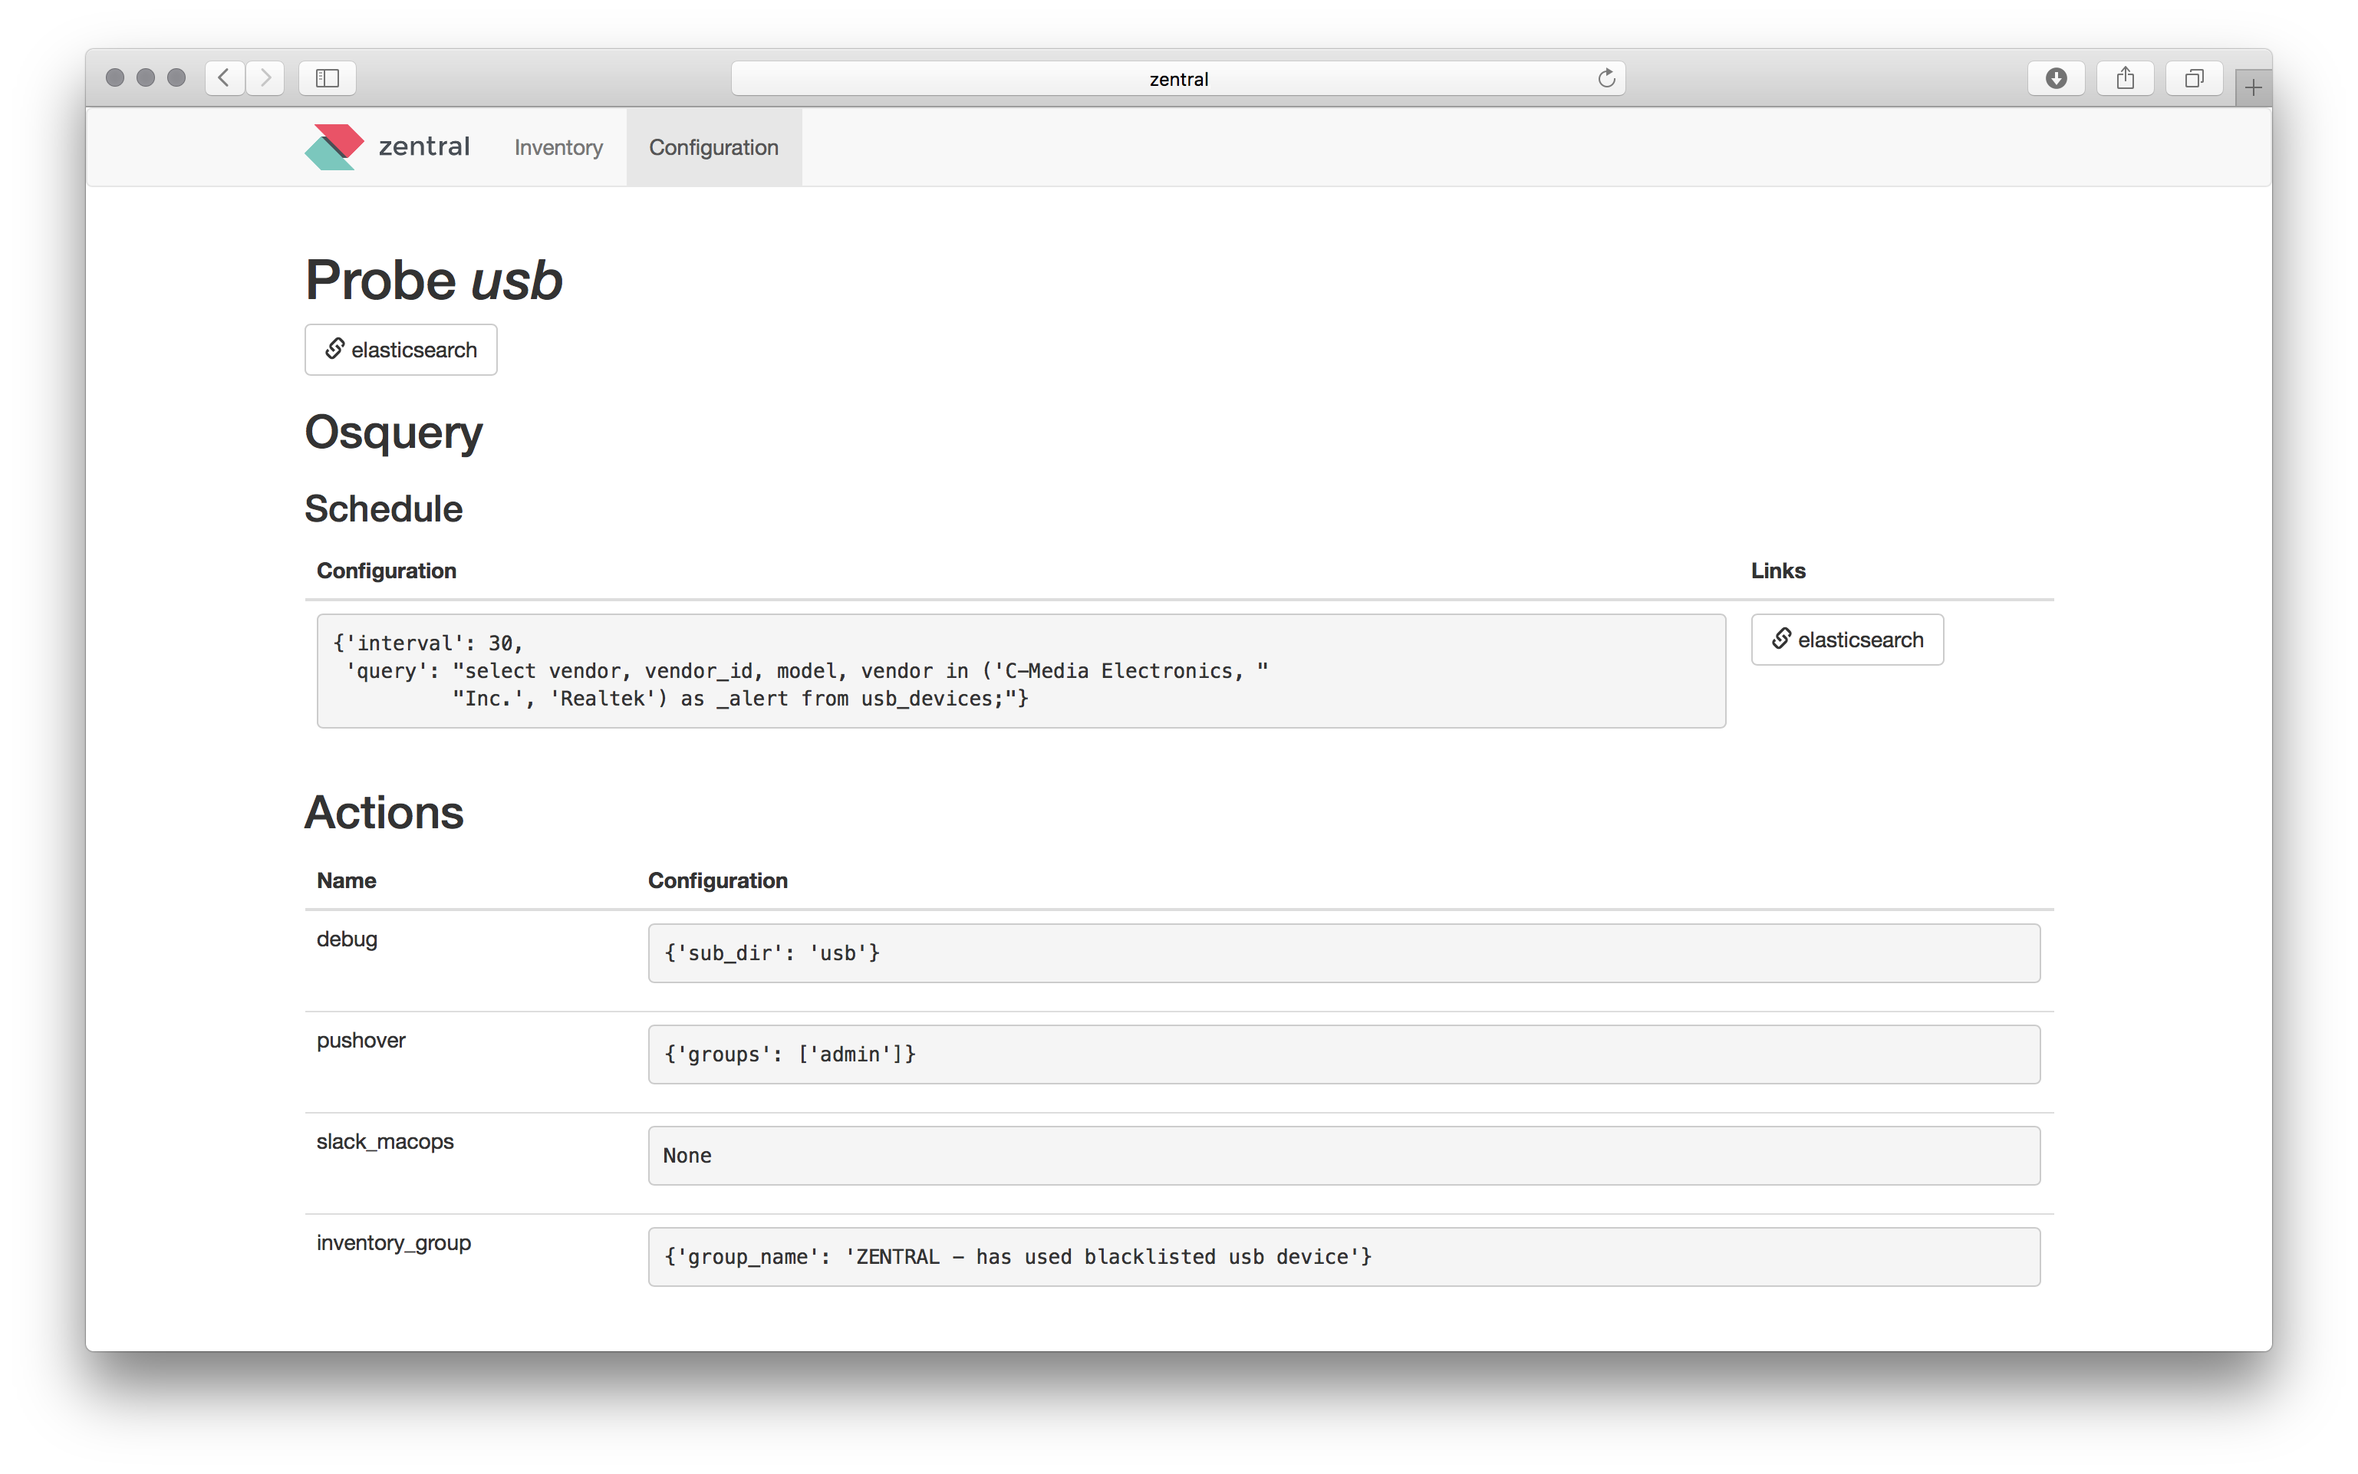
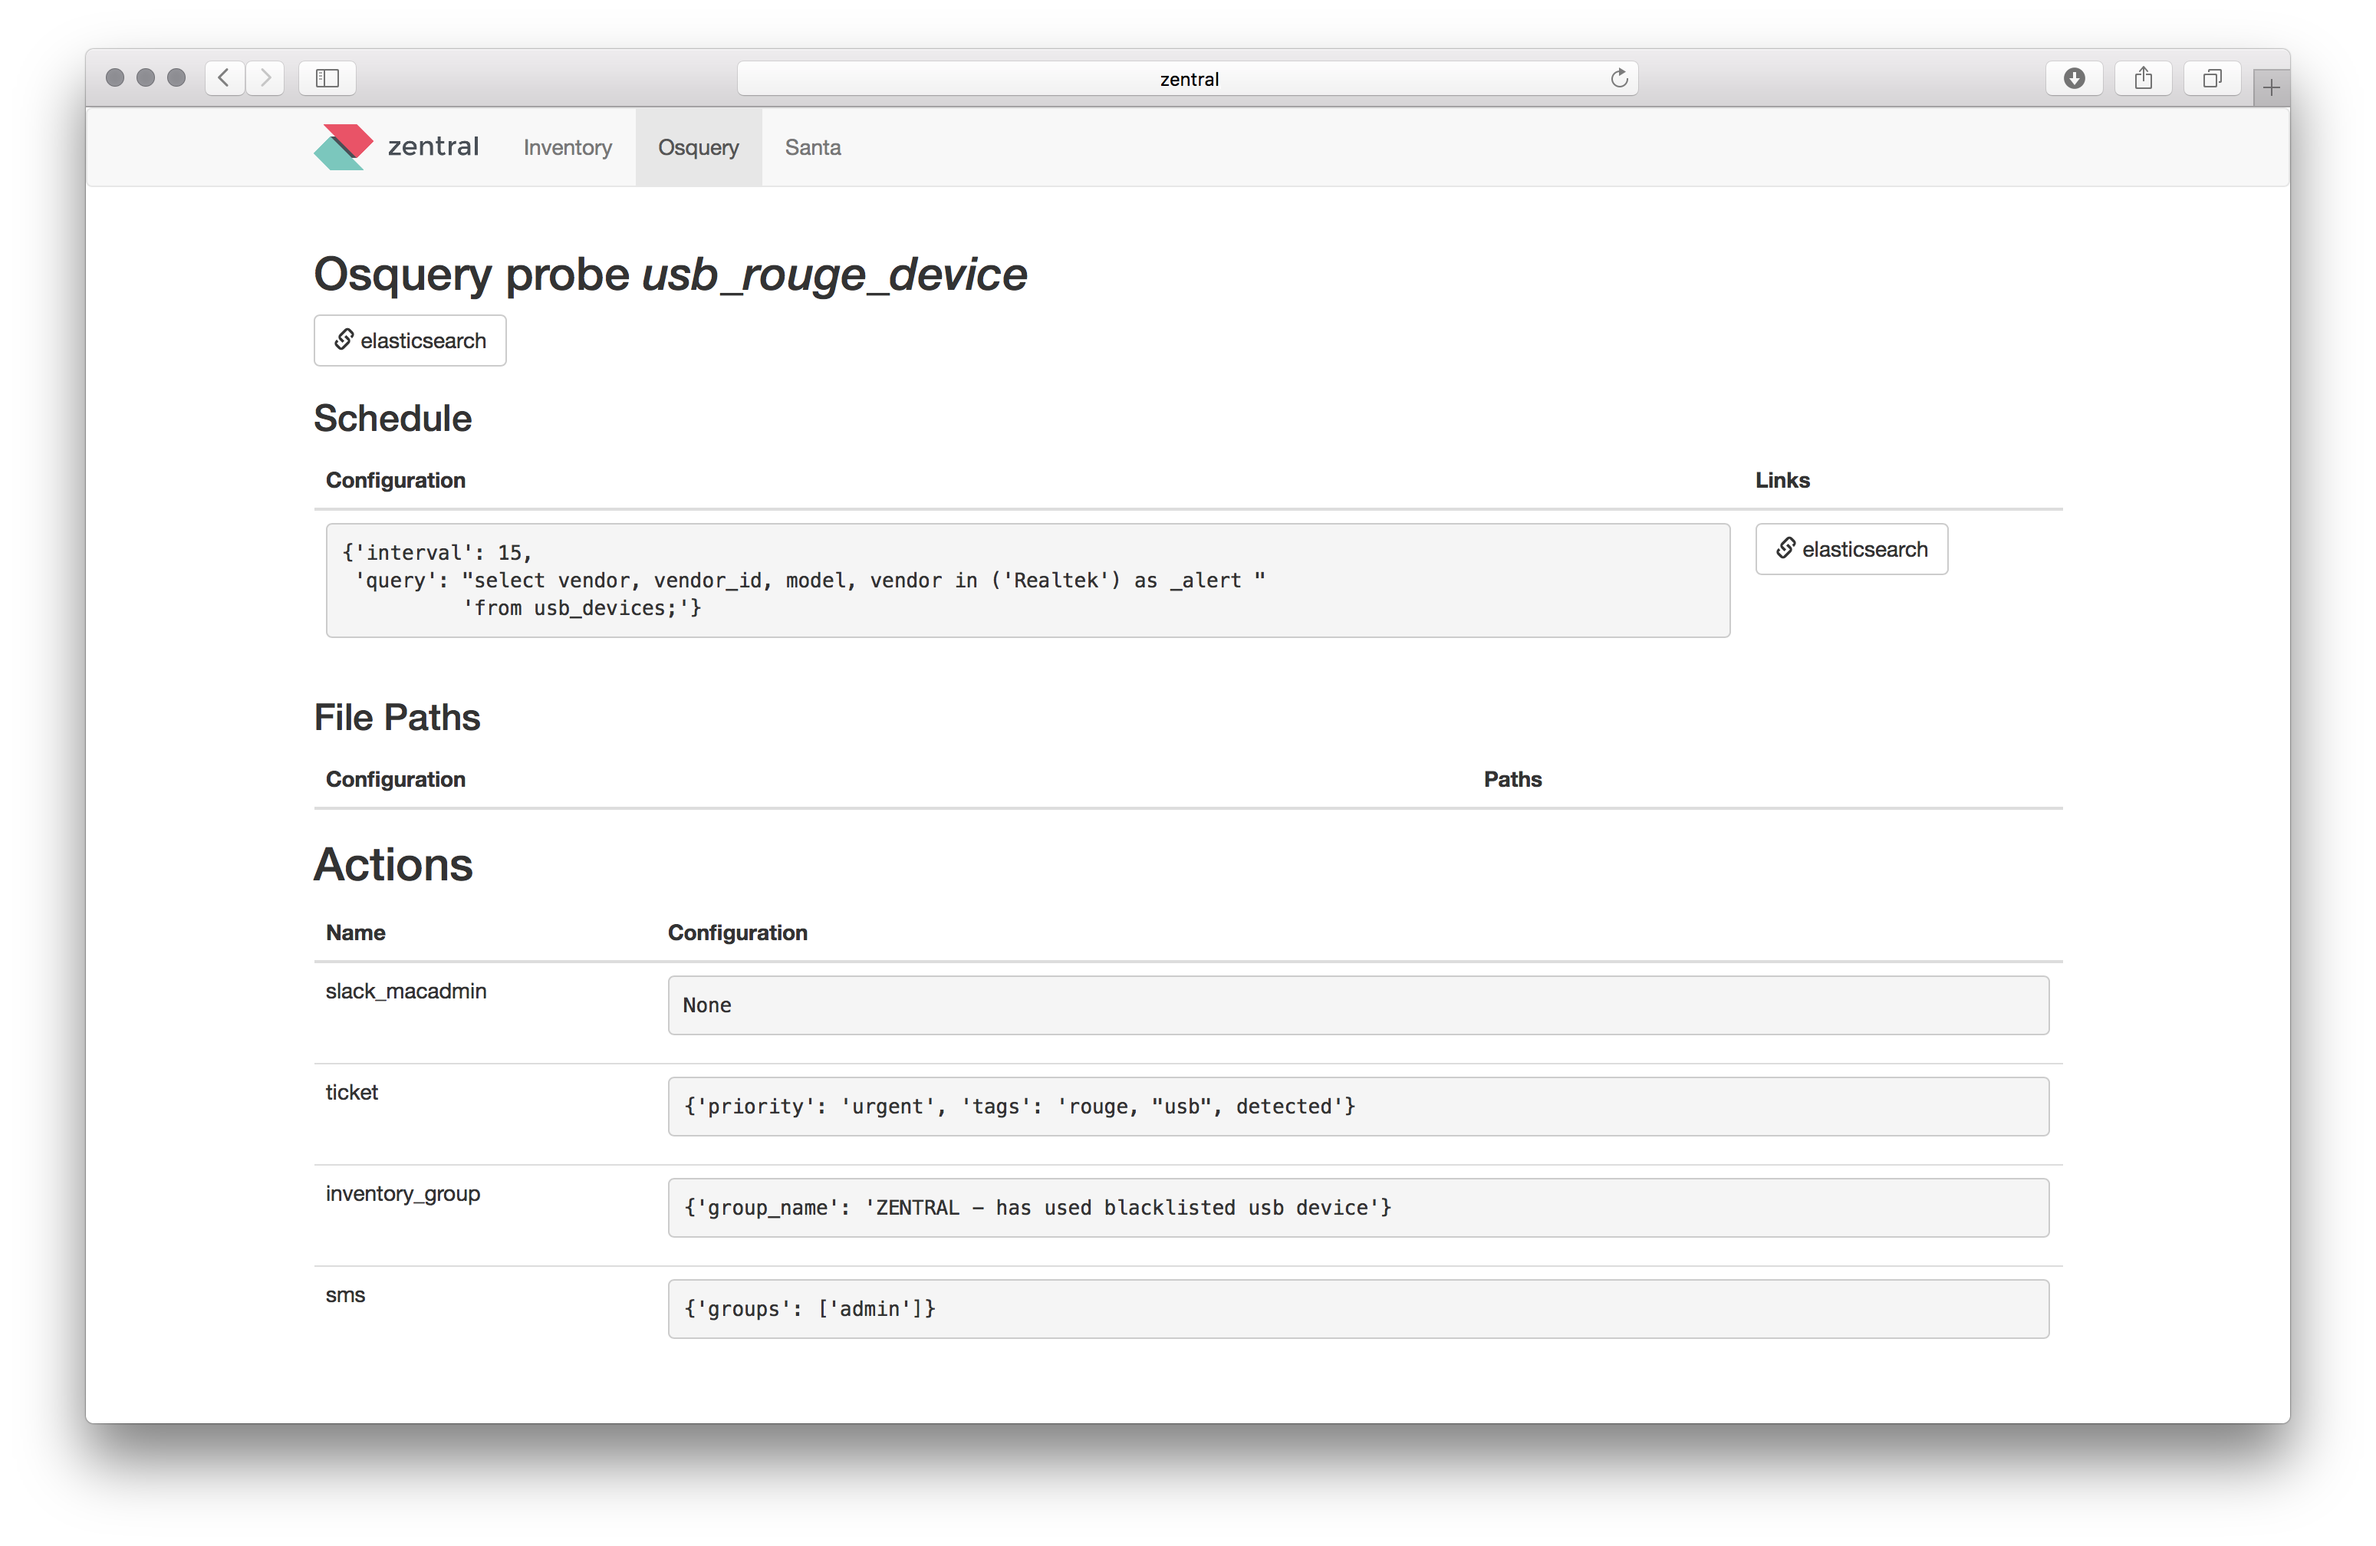
new screenshots
separate modules for inventory, osquery and santa

diff --git a/zentral-web-interface.md b/zentral-web-interface.md
@@ -1,11 +1,11 @@
 ![](https://github.com/zentralopensource/zentral/wiki/images/Zentral_base_RGB.png)
 
-# Zentral web interface details 
+# Zentral web interface details
 Zentral web interface details:
 
-- Django 1.8 Web Framework 
+- Django 1.8 Web Framework
 - Bootstrap 3
-- Nginx 
+- Nginx
 
 This section is a short example overview from various areas in Zentral web interface as well as [Kibana4](<https://www.elastic.co/products/kibana>) and [Prometheus](<http://prometheus.io>)
 
@@ -48,7 +48,9 @@ Status events returned from osquery as scheduled on client devices.
 
 ![](https://github.com/zentralopensource/docs/blob/master/images/zentral_ui_osquery_status.png)
 
-### Inventory Events > Santa 
+#### osquery status
+
+### Inventory Events > Santa
 
 Details on Google Santa features and functionality: [Google Santa](<https://github.com/google/santa>)
 
@@ -69,17 +71,32 @@ Sync details returned from Google Santa binary on client device.
 
 #### Probes view
 
+##### osquery probes
 Zentral Probe detail view (no editing in Web UI currently) with direct link to Kibana4 UI [Elasticsearch button].
 
 Notification actions for this osquery probe will send notification to:
 
-- Slack
-- Push notification to iOS via [Pushover]
+- Slack notification
+- Zendesk ticket creation
 - JSS API - Group membership in JSS will changed as result (Demo video: [Enforce JAMF MDM trigger with Zentral and osquery](<https://youtu.be/hdDoWK0A9TQ>) )
+- SMS sended via Twilio gateway
 
 
 ![](https://github.com/zentralopensource/docs/blob/master/images/zentral_ui_probe_usb_zentral.png)
 
+Zentral Probe for community pack with direct link to Kibana4 UI [Elasticsearch button].
+
+![](https://github.com/zentralopensource/docs/blob/master/images/zentral_ui_osquery_packs.png)
+
+Zentral Probe for FIM with file paths to monitor.
+
+![](https://github.com/zentralopensource/docs/blob/master/images/zentral_ui_osquery_fim.png)
+
+##### Santa probes
+- Slack notification
+- Push notification to iOS via [Pushover]
+
+![](https://github.com/zentralopensource/docs/blob/master/images/zentral_ui_probe_santa_zentral.png)
 
 ### Zentral distributed query
 
@@ -91,7 +108,7 @@ Create a new distributed query
 
 ![](https://github.com/zentralopensource/docs/blob/master/images/zentral_ui_distributed_query_create.png)
 
-#### Kibana / Elasticsearch 
+#### Kibana / Elasticsearch
 
 Probe results displayed in Kibana4 UI with details from the Elasticsearch database.
 
@@ -99,7 +116,7 @@ Probe results displayed in Kibana4 UI with details from the Elasticsearch databa
 
 
 
-## Prometheus 
+## Prometheus
 
 #### Application time series view
 
@@ -114,7 +131,3 @@ Time series overview of OS X version updated sourced from all client devices.
 ![](https://github.com/zentralopensource/docs/blob/master/images/zentral_ui_prometheus_osx_vers.png)
 
 ---
-
-
-
-
